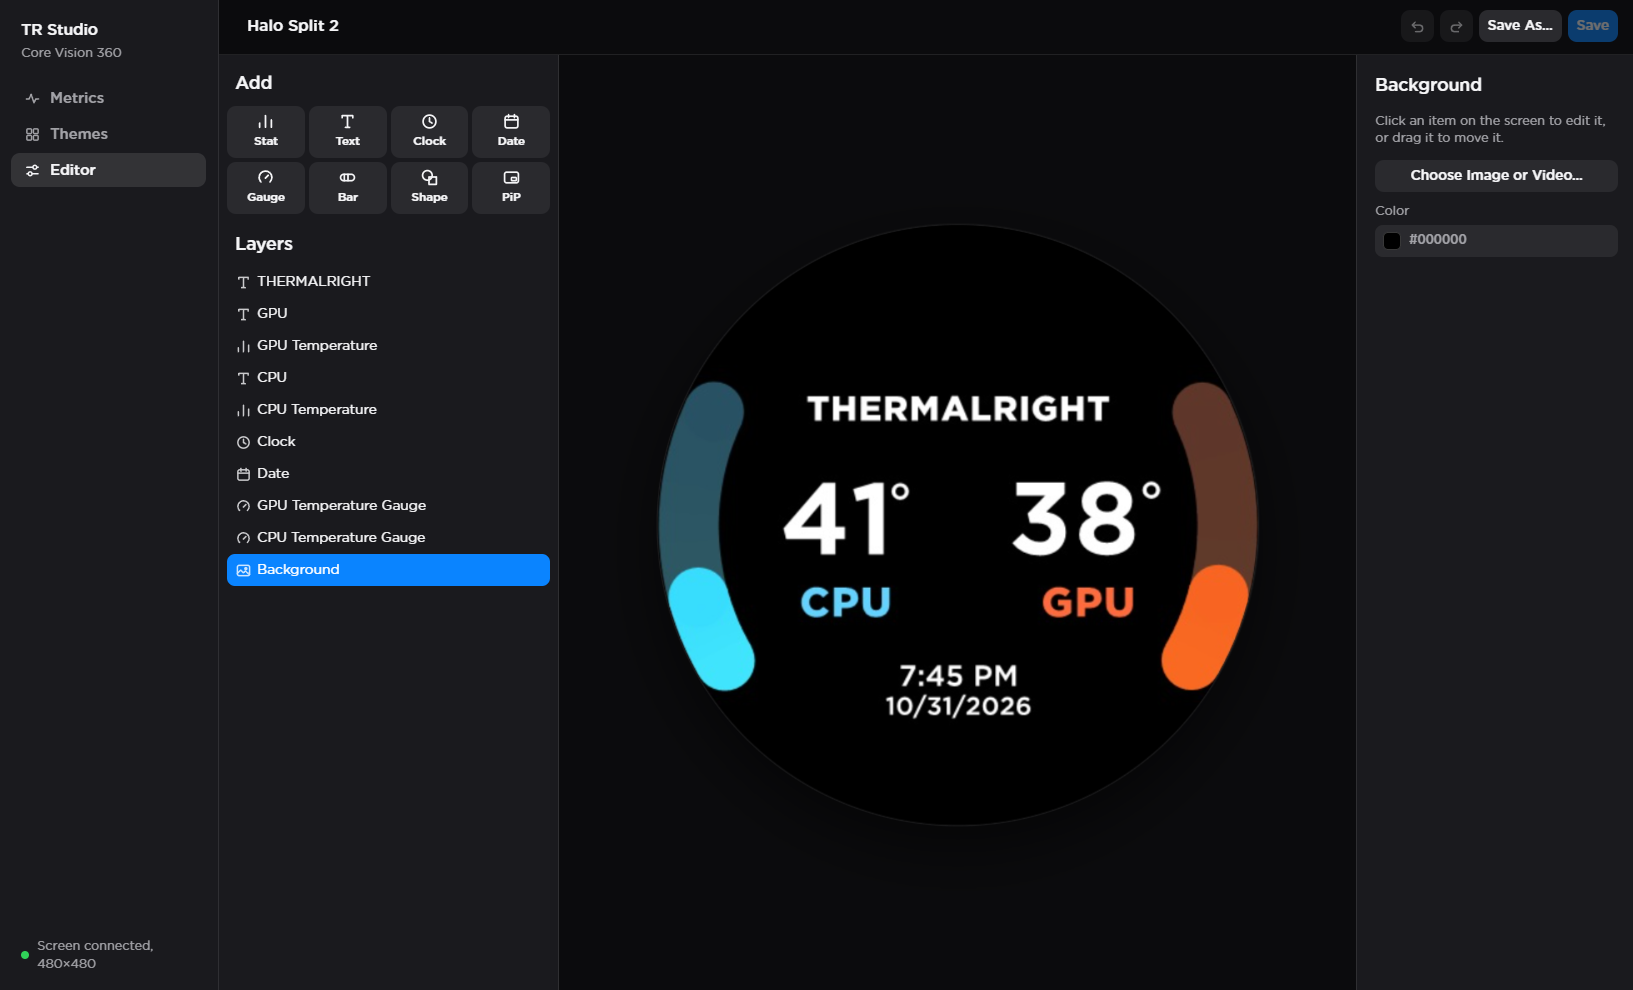
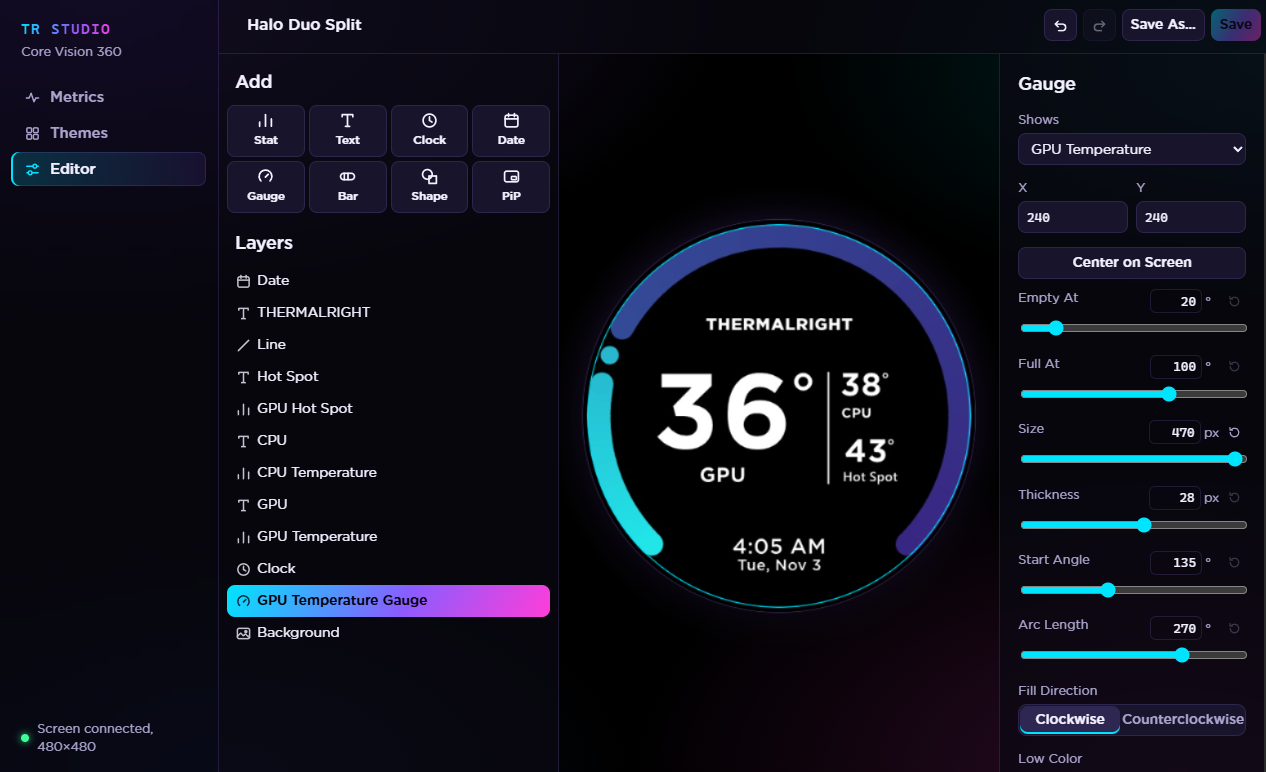
Update the README screenshots for the new look
Replace the Metrics, Themes and Editor screenshots, add the theme gallery
and the color picker, and describe the warnings and the Track Color switch.

diff --git a/README.md b/README.md
@@ -26,9 +26,11 @@ A This PC tile lists your processor, graphics card, motherboard, memory, storage
 
 ### Themes
 
-TR Studio comes with built-in themes, including Halo, Twin Arc, Triple Ring, Stat Grid, Minimal Clock, Ember, Memory and Dual Bar. You can delete the ones you don't want and bring them back later. Themes export and import as `.tstheme` files with their images or video included, and the screen can be rotated in 90° steps.
+TR Studio comes with built-in themes, including Halo, Halo Duo Split, Twin Arc, Triple Ring, Stat Grid, Minimal Clock, Ember, Memory and Dual Bar. You can delete the ones you don't want and bring them back later. Themes export and import as `.tstheme` files with their images or video included, and the screen can be rotated in 90° steps.
 
-![The Themes page, with a live preview, the Theme Playlist and the theme gallery](docs/screenshots/themes.png)
+![The Themes page, with a live preview of the cooler, screen rotation and the Theme Playlist](docs/screenshots/themes.png)
+
+![The theme gallery, with the built-in themes and New Theme](docs/screenshots/theme-gallery.png)
 
 ### Theme Playlist
 
@@ -39,19 +41,25 @@ Pick 2 or 3 themes and the cooler cycles through them in the order you set, ever
 Everything you change in the Editor shows up on the cooler as you go. You can add:
 
 - Stats, text, clocks and dates
-- Ring gauges and bars
+- Ring gauges and bars. Turn off Track Color and they show their full gradient with a marker at the reading instead
 - Shapes and lines, in eight types, with rotation, gradients, opacity, outlines and dashed or dotted lines
 - Picture-in-Picture, which mirrors any part of your desktop onto the cooler live
 
 Backgrounds can be an image, GIF, video or solid color. Layers can be reordered by dragging and hidden, and the Layers pane can be resized. Text gets a choice of fonts, a stroke and a shadow. Snapping guides help line things up, undo and redo cover every change, and you can type an exact value into any slider or reset it to its default. There's Save and Save As, and the Editor warns you when something runs off the edge of a round screen.
 
-![The Editor, with Add tiles, the Layers list and a live preview of a theme](docs/screenshots/editor.png)
+![The Editor, with Add tiles, the Layers list, a live preview and a gauge's settings](docs/screenshots/editor.png)
 
 ### Color
 
 The color picker takes hex values, remembers recent colors, and has an eyedropper that works anywhere on your screen. It ships with 10 palettes of 10 colors each, and you can make your own and share them as `.tspalette` files.
 
 With Blend With Theme on, picking a palette color on a gauge also recolors its bar, its stats and its label, and works out a matching gradient. Apply to Theme colors the whole theme from a palette in one click. Stats are kept readable against the background automatically. This only works with solid color backgrounds, since the app can't measure a picture or video.
+
+![The color picker, with recent colors, the Ocean palette and Blend With Theme](docs/screenshots/color-picker.png)
+
+### Warnings
+
+TR Studio warns you if the AIO pump slows down or stops, or if the CPU or GPU gets too hot. You set each limit yourself on the Themes page, or turn a warning off. When a reading stays past its limit for a few seconds, the cooler screen shows the warning over your theme with a pulsing red ring, Windows shows a notification, and the app shows it in the sidebar. A sensor your PC doesn't report never sets one off.
 
 ### Smooth gauges
 
